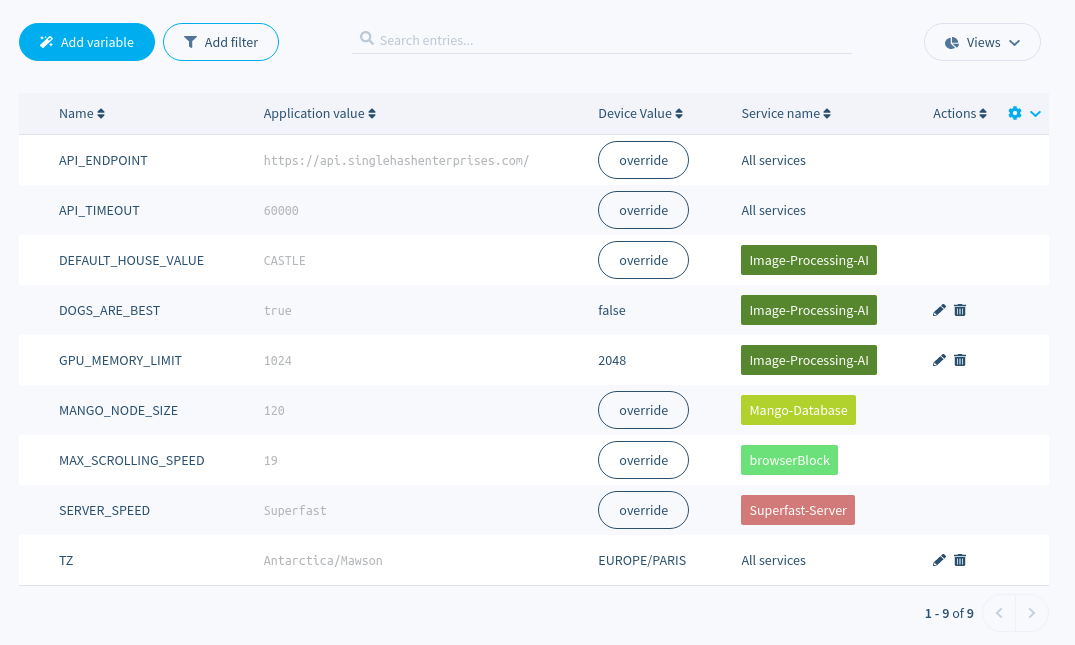
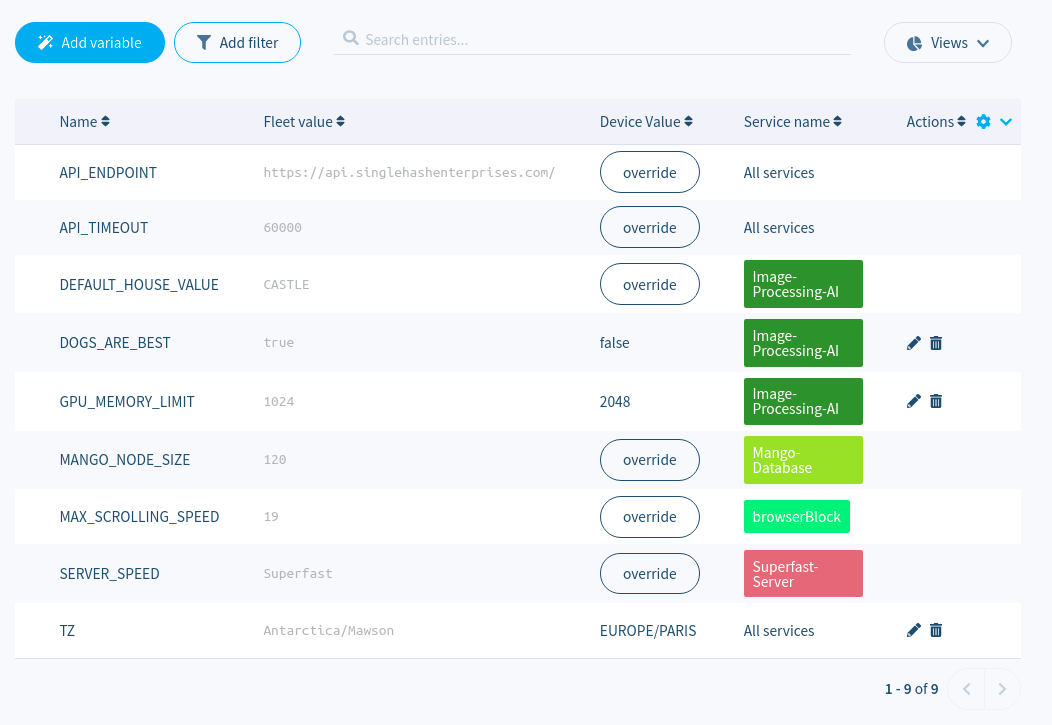
Update screenshots to match fleets

diff --git a/pages/learn/manage/variables.md b/pages/learn/manage/variables.md
@@ -29,7 +29,7 @@ Fleet-wide variables can be found from the Fleet Summary page by clicking the *V
 
 To define a new variable, click the *Add variable* button in the upper-left corner.
 
-<img alt="Add variable" src="/img/variables/add_application_variable.png" width="80%">
+<img alt="Add variable" src="/img/variables/add_fleet_variable.png" width="80%">
 
 In the dialog box that opens, select either a specific service or all services to apply the variable too.
 
@@ -66,7 +66,7 @@ You can override the value of a fleet variable by clicking *override* in the far
 The {{ $names.company.lower }} CLI and SDKs all include methods to easily read, add or update variables. Consult the appropriate reference for code examples.
 
 * [CLI environment reference](/tools/cli/#envs)
-* [Node.js SDK environment reference](/reference/sdk/node-sdk/#balena.models.application.envVar)
+* [Node.js SDK environment reference](/reference/sdk/node-sdk/#balena.models.fleet.envVar)
 * [Python SDK environment reference](/reference/sdk/python-sdk/#environmentvariable)
 
 [local-mode]:/learn/develop/local-mode
